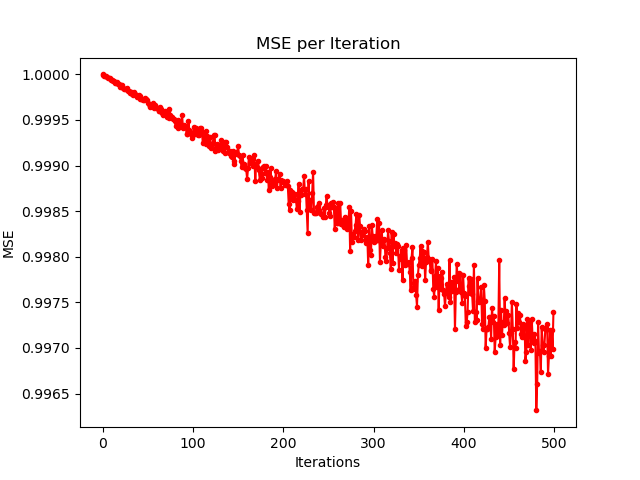
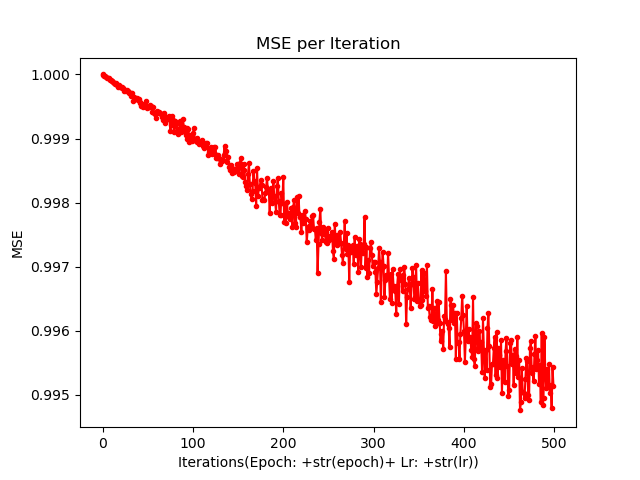
Metricas Testing

diff --git a/preparacion_dataset.py b/preparacion_dataset.py
@@ -122,8 +122,8 @@ def plot_mse_epoch(iterations, mse_loss, epoch, lr):
     fig, ax = plt.subplots()
 
     plt.title("MSE per Iteration")
-    plt.xlabel("Iterations")
+    plt.xlabel("Iterations(Epoch: +str(epoch)+ Lr: +str(lr))")
     plt.ylabel("MSE")
-    plt.text(5,5,'Epoch:'+str(epoch)+' Lr:'+str(lr), verticalalignment ='top', horizontalalignment ='right')
+    
     plt.plot(range(iterations),mse_loss, color='red', marker='.') 
     plt.savefig('mse_loss_plots/Iterations'+str(iterations)+'lr'+str(lr)+'NumEpoch'+str(epoch)+'.png')
